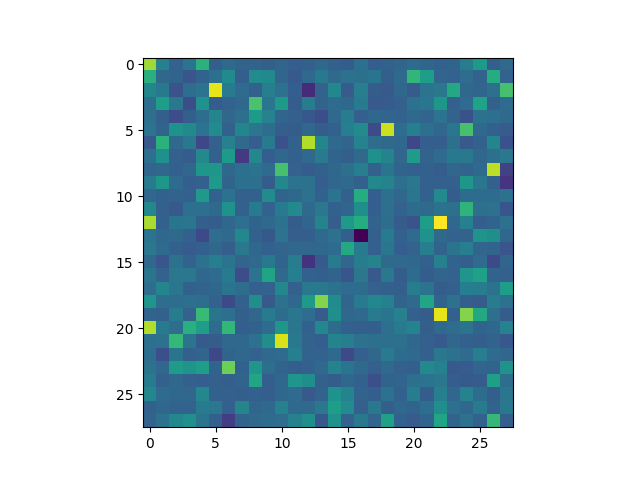
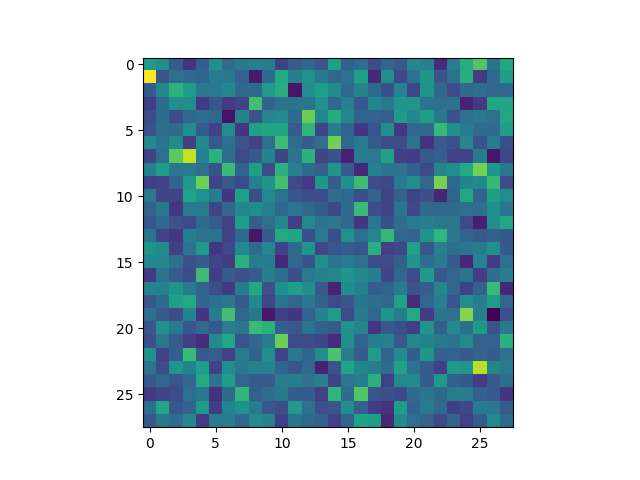
update commit

Changed region(s): [[0.2188, 0.125, 0.8125, 0.9062]]

diff --git a/modules/train.py b/modules/train.py
@@ -68,18 +68,16 @@ def test_data():
   n_block = 9
   prior = MultivariateNormal(torch.zeros(dim), torch.eye(dim))
   model = Flow(dim, prior, n_block)
-  model.load_state_dict(torch.load("./models/mnist.pth.tar"))
+  model.load_state_dict(torch.load("./models/model_best.pth.tar"))
   model.eval()
   sample = prior.sample([1])
-  xs  = model.get_sample(1)
   sample = sample.view(28, 28).unsqueeze(0)
-  xs = norm(xs, 1, 28, 28).squeeze()
+  sample = norm(sample, 1, 28, 28)
+  xs = model.reverse(sample.view(1, 784))
+  print(torch.min(sample), torch.max(sample))
   print(torch.min(xs), torch.max(xs))
-  show(sample.view(28, 28).detach().numpy())
-  show(xs.view(28, 28).detach().numpy())
-  # imshow(z.view(28, 28).detach().numpy())
-  # imshow(sample.view(28, 28).detach().numpy())
-  # plot(xs.detach())
+  show(xs.view(28, 28).detach().numpy(), "output")
+
 
 def train_data():
   inpt = 100
@@ -90,7 +88,7 @@ def train_data():
   wd=1e-3
   old_loss = 1e6
   best_loss = 0
-  batch_size = 100
+  batch_size = 128
   prior = MultivariateNormal(torch.zeros(dim), torch.eye(dim))
 
   #MNIST
@@ -100,13 +98,28 @@ def train_data():
 
   torch.manual_seed(1)
   model = Flow(dim, prior, n_block)
-  model.apply(init_weights)
+  # model.apply(init_weights)
   optimizer = optim.Adam(model.parameters(), lr)
 
   sample = prior.sample([1])
   for i in range(epochs):
     total_loss = 0
     for b, (x, _) in enumerate(train_loader):
+
+      #DEQUANTIZATION
+      n_bits = 8
+      n_bins = 2**n_bits
+      x = torch.Tensor([0, 1])
+      x = x * 255
+      print(torch.min(x), torch.max(x), x.dtype)
+      x = torch.floor(x / 2 ** (8 - n_bits))
+      print(torch.min(x), torch.max(x), x.dtype)
+      tmp_x = x + torch.rand_like(x) / n_bins
+      print(torch.min(x), torch.max(x), x.dtype)
+      x = x + torch.rand_like(x) / n_bins
+      print(torch.min(x), torch.max(x), x.dtype)
+      e()
+
       model.train()
       optimizer.zero_grad()
       if b == 100:
@@ -115,14 +128,10 @@ def train_data():
       z, logdet, logprob = model(x)
       img_orig = x.reshape(batch_size, 28, 28)
       img_test = model.reverse(z).reshape(batch_size, 28, 28)
-      # imshow(img_orig[0].detach().numpy())
-      # imshow(img_test[0].detach().numpy())
-      # e()
       loss = -(logprob + logdet)
       loss = torch.sum(loss)
       total_loss += loss
     if i % 10 == 0:
-      model.eval()
       # for params in model.parameters():
       #   print(params.mean())
       if loss.item()/batch_size < old_loss and loss.item() > 0:
@@ -130,11 +139,15 @@ def train_data():
         save_checkpoint(model.state_dict(), is_best)
         print("saved model")
         old_loss = loss/batch_size
-        xs = model.reverse(sample)
-        show(xs.squeeze().view(28, 28).detach().numpy(), i)
-        # show(x[0].squeeze().view(28, 28).detach().numpy(), i)
+        model.eval()
+        # with torch.no_grad():
+        sample = prior.sample([1])
+        sample = sample.view(28, 28).unsqueeze(0)
+        sample = norm(sample, 1, 28, 28)
+        xs = model.reverse(sample.view(1, 784))
+        model.train()
+        show(xs.view(28, 28).detach().numpy(), i)
       print(f"loss at epoch {i}: {loss.item()/batch_size}")
-    model.train()
     loss.backward()
     optimizer.step()
   best_loss = old_loss

diff --git a/modules/flows.py b/modules/flows.py
@@ -7,12 +7,12 @@ class SimpleNet(nn.Module):
   def __init__(self, inp, parity):
     super(SimpleNet, self).__init__()
     self.net = nn.Sequential(
-      nn.Linear(inp//2, 24),
+      nn.Linear(inp//2, 256),
       nn.LeakyReLU(True),
-      nn.Linear(24, 24),
+      nn.Linear(256, 256),
       nn.LeakyReLU(True),
-      nn.Linear(24, inp//2),
-      nn.Softmax(),
+      nn.Linear(256, inp//2),
+      nn.Sigmoid(),
       nn.BatchNorm1d(392)
     )
     self.inp = inp
@@ -26,6 +26,7 @@ class SimpleNet(nn.Module):
     # print("X: ", x0[0][0].detach(), x1[0][0].detach())
     z1 = x1
     log_s = self.net(x1)
+    # print(x.size(), x1.size(), log_s.size())
     t = self.net(x1)
     s = torch.exp(log_s)
     z0 = (s * x0) + t

diff --git a/main.py b/main.py
@@ -1,11 +1,15 @@
 import argparse
+import torch 
+from sys import exit as e
 
 from modules.train import train_data, test_data
 
 
 def main():
-  train_data()
-  # test_data()
+  device = 'gpu' if torch.cuda.is_available() else 'cpu'
+  print(device)
+  train_data(device)
+  test_data(device)
 
 
 if __name__ == '__main__':
